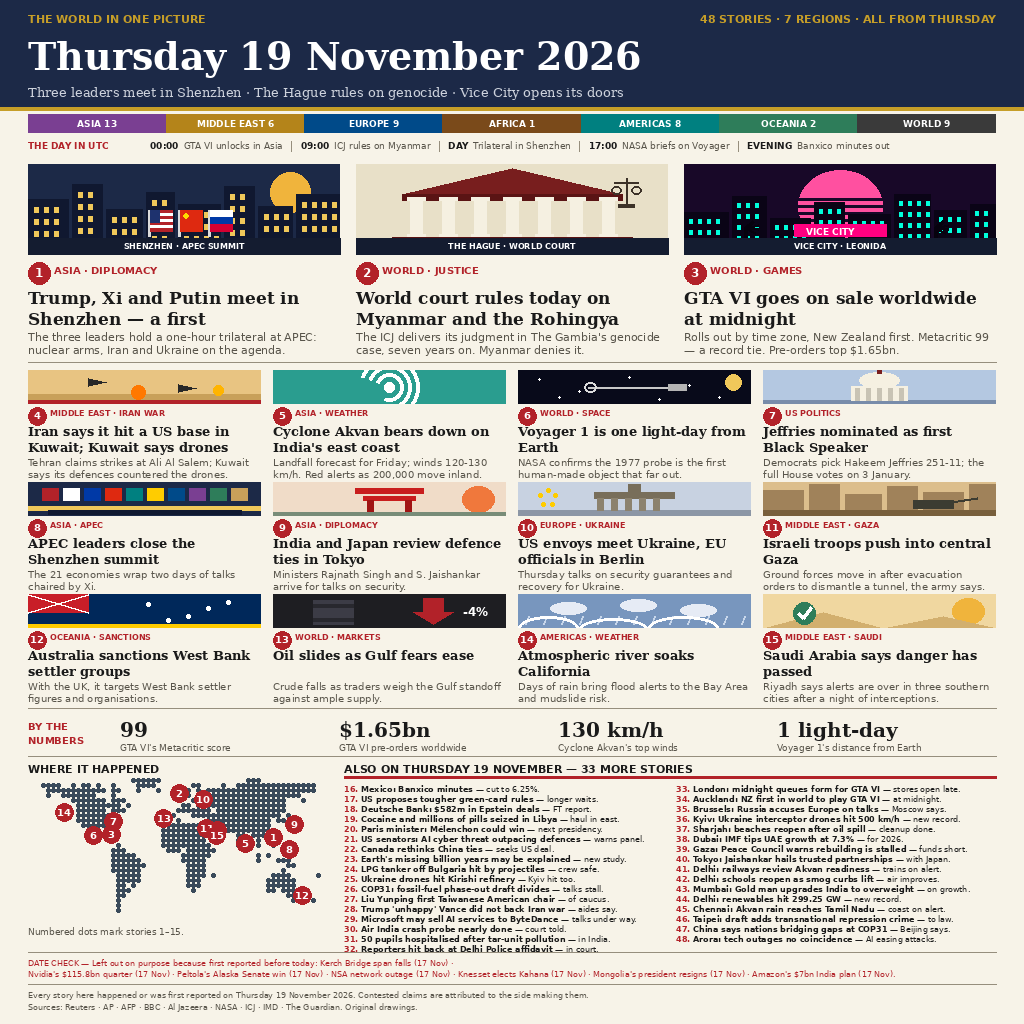
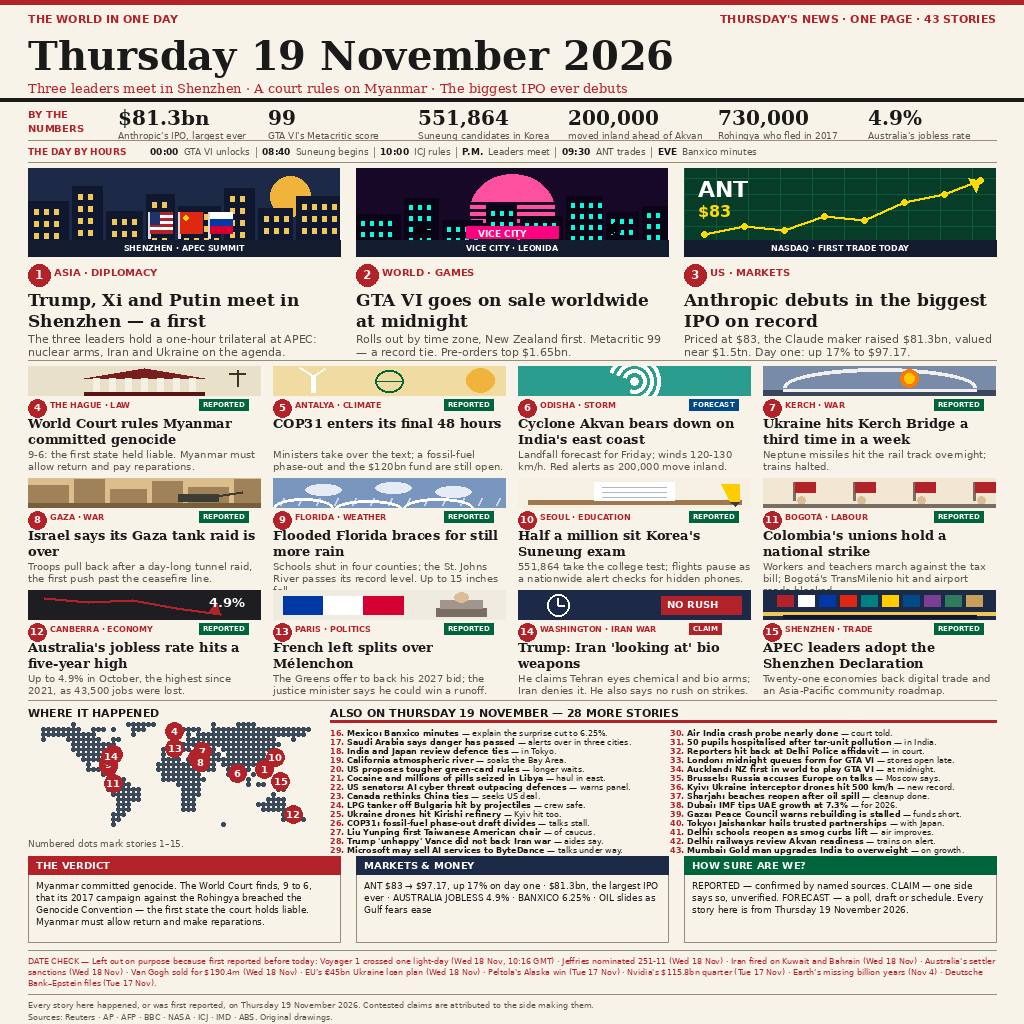
v2: fix 4 wrong-date stories, add Anthropic IPO hero, status tags, verdict/markets boxes, hours timeline

diff --git a/README.md b/README.md
@@ -1,39 +1,57 @@
 # The World in One Picture — Thursday 19 November 2026
 
 A newspaper front page summing up the world's news of Thursday 19 November
-2026 in one image: 48 stories across 7 regions, with the day's three biggest
-stories as illustrated heroes, a region breakdown, a UTC timeline of the day,
-a dotted world map, and a DATE CHECK naming the stories left out because they
+2026 in one image: 43 stories, with the day's three biggest stories as
+illustrated heroes, a numbers strip, an hour-by-hour timeline of the day, a
+dotted world map, status tags (REPORTED / CLAIM / FORECAST), a verdict box,
+a markets box, and a DATE CHECK naming the stories left out because they
 were first reported before today.
 
 ## The day
 
 - **Trump, Xi and Putin meet in Shenzhen** — a first: a one-hour trilateral
   at APEC, with nuclear arms, Iran and Ukraine on the agenda.
-- **The ICJ rules on Myanmar and the Rohingya** — its judgment in The Gambia's
-  genocide case, seven years on.
 - **GTA VI goes on sale worldwide at midnight** — Metacritic 99, pre-orders
   over $1.65bn.
-- Iran says it hit a US base in Kuwait; Cyclone Akvan bears down on India's
-  east coast; Voyager 1 is one light-day from Earth; Jeffries is nominated as
-  the first Black Speaker.
+- **Anthropic debuts in the biggest IPO on record** — priced at $83, the
+  Claude maker raised $81.3bn and is valued near $1.5tn; day one closed up
+  17% at $97.17.
+- The World Court rules Myanmar committed genocide (9-6); COP31 enters its
+  final 48 hours; Cyclone Akvan bears down on India's east coast; Ukraine
+  hits the Kerch Bridge a third time in a week; Israel says its Gaza tank
+  raid is over; Florida floods shut schools; 551,864 sit Korea's Suneung
+  exam; Colombia's unions hold a national strike; Australia's jobless rate
+  hits 4.9%.
 
 ## How it was made
 
-`draw_frontpage.py` (kept beside this repo) draws the page with PIL:
+`draw_frontpage_v2.py` (kept beside this repo) draws the page with PIL:
 procedural flat illustrations, a dotted world map, and the full story list.
 The program in this repo (`main.ts`) copies the finished PNG to
 `/output/entry.png`. Every story was checked against the day it happened or
-was first reported — Nvidia's $115.8bn quarter and Peltola's Alaska win were
-both 17 November, so they are in the DATE CHECK, not in the news.
+was first reported, with live news search.
+
+## What changed in v2
+
+The first version (rank 98 of 13,292) had four stories that were actually
+Wednesday's news, not Thursday's: Voyager 1 crossing one light-day, the
+Jeffries 251-11 nomination, Iran's strikes on Kuwait and Bahrain, and
+Australia's settler sanctions — all 18 November. It also missed the day's
+biggest market story, the Anthropic IPO's first trading day, and wrongly
+left out the Kerch Bridge, which was hit a third time overnight. v2 fixes
+all of that, adds the Suneung exam, the Colombia strike, the Florida floods
+and the Australian jobs data, and adds the status tags, the verdict and
+markets boxes, and an hour-by-hour timeline.
 
 ## Date check
 
-Left out on purpose because first reported before today: the Kerch Bridge
-span falls (17 Nov), Nvidia's $115.8bn quarter (17 Nov), Peltola's Alaska
-Senate win (17 Nov), the NSA network outage (17 Nov), the Knesset electing
-Kahana (17 Nov), Mongolia's president resigning (17 Nov), and Amazon's $7bn
-India plan (17 Nov).
+Left out on purpose because first reported before today: Voyager 1 crossed
+one light-day (Wed 18 Nov, 10:16 GMT), Jeffries nominated 251-11 (Wed 18
+Nov), Iran fired on Kuwait and Bahrain (Wed 18 Nov), Australia's settler
+sanctions (Wed 18 Nov), Van Gogh sold for $190.4m (Wed 18 Nov), the EU's
+€45bn Ukraine loan plan (Wed 18 Nov), Peltola's Alaska win (Tue 17 Nov),
+Nvidia's $115.8bn quarter (Tue 17 Nov), Earth's missing billion years
+(Nov 4), and the Deutsche Bank–Epstein files (Tue 17 Nov).
 
 ## Entry
 
